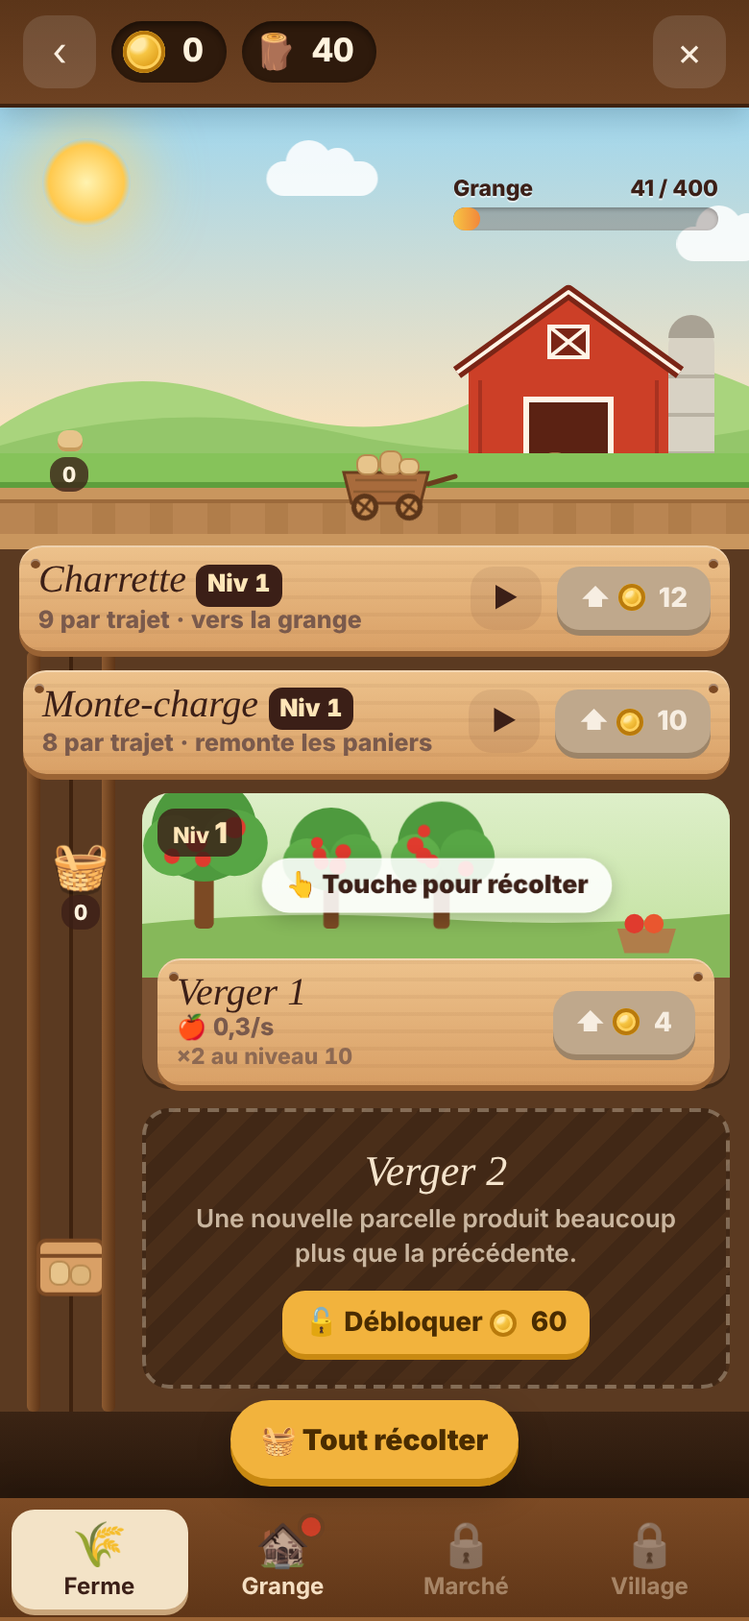
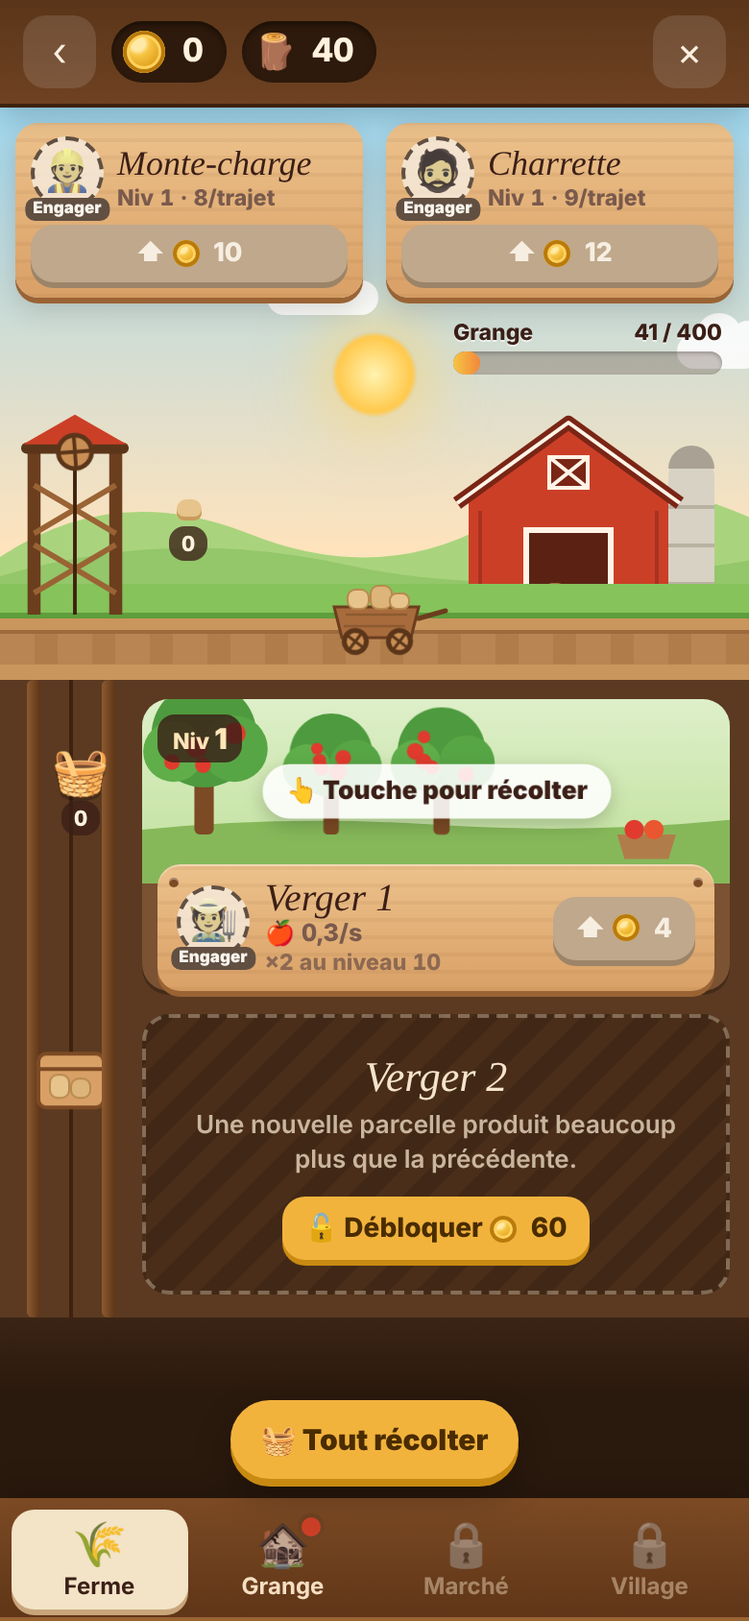
Le Baron v2 : monte-charge et charrette améliorables en haut de la ferme, contremaîtres visibles, trajets à la main en touchant le monte-charge ou la charrette
Claude-Session: https://claude.ai/code/session_016SqHKL96d9NyDZuzEYmYJY

diff --git a/baron.js b/baron.js
@@ -496,8 +496,8 @@ const STYLE = `
 
 /* ======== FERME ======== */
 .b2-farm{background:#5B3A21}
-.b2-sky{position:relative;height:232px;overflow:hidden;background:linear-gradient(var(--sky1),var(--sky2) 78%)}
-.b2-sky .sun{position:absolute;left:22px;top:18px;width:46px;height:46px;border-radius:50%;background:radial-gradient(#FFF3B0,#FFC94D 60%,rgba(255,201,77,0) 72%);box-shadow:0 0 30px 8px rgba(255,214,110,.55)}
+.b2-sky{position:relative;height:300px;overflow:hidden;background:linear-gradient(var(--sky1),var(--sky2) 78%)}
+.b2-sky .sun{position:absolute;left:calc(50% - 23px);top:118px;width:46px;height:46px;border-radius:50%;background:radial-gradient(#FFF3B0,#FFC94D 60%,rgba(255,201,77,0) 72%);box-shadow:0 0 30px 8px rgba(255,214,110,.55)}
 .b2-cloud{position:absolute;height:18px;background:#fff;border-radius:20px;opacity:.85;animation:b2-cloud linear infinite}
 .b2-cloud::before,.b2-cloud::after{content:"";position:absolute;background:#fff;border-radius:50%}
 .b2-cloud::before{width:24px;height:24px;left:10px;top:-11px}.b2-cloud::after{width:18px;height:18px;left:28px;top:-7px}
@@ -507,26 +507,26 @@ const STYLE = `
 .b2-road{position:absolute;left:0;right:0;bottom:8px;height:18px;background:repeating-linear-gradient(90deg,#B98552 0 18px,#B07D4A 18px 30px);border-top:2px solid #9C6A3B}
 .b2-barn{position:absolute;right:10px;bottom:30px;width:150px}
 .b2-barn svg{display:block;width:100%}
-.b2-gauge{position:absolute;right:16px;bottom:166px;width:138px}
+.b2-gauge{position:absolute;right:14px;top:112px;width:140px;z-index:1}
 .b2-gbar{height:12px;border-radius:999px;background:rgba(59,31,23,.25);overflow:hidden;box-shadow:inset 0 1px 2px rgba(0,0,0,.25)}
 .b2-gbar i{display:block;height:100%;border-radius:999px;background:linear-gradient(90deg,#F6C543,#F2873B);transition:width .5s}
 .b2-gbar.full i{background:var(--down);animation:b2-blink 1s infinite}
 @keyframes b2-blink{50%{opacity:.55}}
 .b2-glab{display:flex;justify-content:space-between;font:800 11.5px var(--round);color:var(--ink);margin-bottom:3px;text-shadow:0 1px 0 rgba(255,255,255,.6)}
-.b2-cartlane{position:absolute;left:60px;right:150px;bottom:14px;height:44px}
+.b2-cartlane{position:absolute;left:74px;right:156px;bottom:12px;height:50px;padding:0!important;z-index:1}
 .b2-cart{position:absolute;left:0;bottom:0;width:62px;animation:b2-cart 8s ease-in-out infinite}
 .b2-cart svg{display:block;width:100%}
 .b2-cart .wheel{transform-box:fill-box;transform-origin:center;animation:b2-spin .8s linear infinite}
 @keyframes b2-cart{0%,6%{left:0;transform:scaleX(1)}46%{left:calc(100% - 62px);transform:scaleX(1)}50%,56%{left:calc(100% - 62px);transform:scaleX(-1)}96%{left:0;transform:scaleX(-1)}100%{left:0;transform:scaleX(1)}}
 @keyframes b2-spin{to{transform:rotate(360deg)}}
 .idle .b2-cart,.idle .b2-cart .wheel,.idle .b2-cab,.idle.b2-cab{animation-play-state:paused}
-.b2-quai{position:absolute;left:8px;bottom:28px;width:56px;text-align:center}
+.b2-quai{position:absolute;left:70px;bottom:60px;width:56px;text-align:center;pointer-events:none;z-index:2}
 .b2-quai .sacks{display:flex;flex-wrap:wrap-reverse;justify-content:center;gap:1px;min-height:18px}
 .b2-quai .sk{width:13px;height:11px;border-radius:5px 5px 4px 4px;background:#E7C48B;box-shadow:inset 0 -2px 0 #C79B5C}
 .b2-tag{display:inline-block;background:rgba(59,31,23,.78);color:#FFF3DE;border-radius:8px;padding:2px 6px;font:800 11px var(--round);font-variant-numeric:tabular-nums}
 .b2-tag.warn{background:var(--down)}
-.b2-farmsw{position:absolute;left:78px;top:12px;display:flex;gap:6px}
-.b2-farmsw button{background:rgba(255,255,255,.75)!important;border-radius:999px;padding:4px 10px;font:800 13px var(--round)!important}
+.b2-farmsw{display:flex;gap:6px;padding:10px 12px 0;overflow-x:auto}
+.b2-farmsw button{flex:none;color:var(--ink)!important;background:#FFF4E0!important;border-radius:999px;padding:4px 10px;font:800 13px var(--round)!important}
 .b2-farmsw button.on{background:var(--ink)!important;color:#FFF3DE!important}
 
 /* panneaux en bois (charrette, monte-charge, parcelles) */
@@ -546,11 +546,47 @@ const STYLE = `
 .b2-mgr.hire .b2-coin{width:11px;height:11px;margin:0}
 .b2-mgr.can{animation:b2-call 1.6s ease-in-out infinite}
 @keyframes b2-call{50%{box-shadow:0 0 0 5px rgba(242,179,61,.6)}}
-.b2-cartsign{margin:-2px 10px 0;z-index:2}
+.b2-stn{position:absolute;top:10px;z-index:3;width:calc(50% - 14px);max-width:210px;box-sizing:border-box;border-radius:12px;padding:7px 8px 8px;color:var(--ink);cursor:pointer;
+  box-shadow:0 3px 0 #9A6334,0 6px 14px rgba(59,31,23,.18);background-image:repeating-linear-gradient(0deg,rgba(124,74,36,.07) 0 2px,transparent 2px 9px),linear-gradient(180deg,#EDC28C,#D9A066)}
+.b2-stn.elev{left:8px}.b2-stn.cart{right:8px}
+.b2-stn .top{display:flex;align-items:center;gap:7px}
+.b2-stn .nm{min-width:0;display:flex;flex-direction:column;gap:3px}
+.b2-stn .nm b{font:400 italic 18px/1 var(--disp);white-space:nowrap}
+.b2-stn .bot{display:flex;align-items:center;justify-content:space-between;gap:6px;margin-top:7px}
+.b2-stn .meta{font:800 11.5px var(--round);color:var(--ink2);font-variant-numeric:tabular-nums;line-height:1.2}
+.b2-stn > .b2-btn{display:flex;width:100%;margin-top:2px;padding:7px 8px;font-size:13.5px!important}
+.b2-stn .b2-slow{position:absolute;right:6px;top:-9px;margin:0}
+.b2-seat{position:relative;width:38px;height:38px;flex:none;border-radius:50%!important;display:grid;place-items:center;font-size:21px!important;background:rgba(255,244,224,.7)!important;border:2px dashed var(--wood2)!important;padding:0!important;margin-bottom:6px}
+.b2-seat > i{position:absolute;left:50%;bottom:-8px;transform:translateX(-50%);font:900 8.5px var(--round);font-style:normal;white-space:nowrap;background:var(--wood2);color:#FFF3DE;border-radius:5px;padding:1px 4px}
+.b2-seat:not(.on){filter:saturate(.35)}
+.b2-seat.can{filter:none;animation:b2-call 1.6s ease-in-out infinite}
+.b2-seat.can > i{background:var(--up)}
+.b2-seat.on{background:#FFF4E0!important;border:0!important;box-shadow:0 0 0 2.5px var(--gold),0 2px 0 3px rgba(0,0,0,.12)}
+.b2-seat.on > i{background:var(--gold);color:#4A2C00}
+.b2-tower{position:absolute!important;left:10px;bottom:34px;width:58px;padding:0!important;z-index:2}
+.b2-tower svg{display:block;width:100%}
+.b2-tower .pulley{transform-box:fill-box;transform-origin:center;animation:b2-spin 1.4s linear infinite}
+.b2-tower.idle .pulley{animation-play-state:paused}
+.b2-hand{position:absolute;font-size:28px;line-height:1;pointer-events:none;filter:drop-shadow(0 2px 2px rgba(0,0,0,.3));animation:b2-tap 1.1s ease-in-out infinite;z-index:4}
+.b2-tower .b2-hand{right:-14px;top:30px}
+.b2-cartlane .b2-hand{left:22px;top:-20px}
+@keyframes b2-tap{0%,100%{transform:translateY(0)}50%{transform:translateY(7px) scale(.92)}}
+.b2-plot .b2-sign .sp{cursor:pointer}
+.b2-stat > div{display:flex;align-items:baseline;gap:8px;padding:8px 0;border-bottom:1px solid rgba(59,31,23,.1);font:700 14px var(--round);font-variant-numeric:tabular-nums}
+.b2-stat > div > span:first-child{flex:1;color:var(--ink2)}
+.b2-stat b{font-weight:900}.b2-stat .up2{color:var(--up2)}.b2-stat .ar{color:var(--ink3)}
+.b2-seg.light{background:rgba(59,31,23,.08);margin-top:12px}
+.b2-seg.light button{color:var(--ink2)!important}
+.b2-seg.light button.on{background:#fff!important;color:var(--ink)!important;box-shadow:0 1px 3px rgba(0,0,0,.1)}
+.b2-boss{display:flex;align-items:center;gap:10px;margin-top:14px;background:#FFF0C8;border-radius:14px;padding:10px 12px}
+.b2-boss .f{font-size:30px}.b2-boss .sp{flex:1;min-width:0}
+.b2-boss b{display:block;font:900 14.5px var(--round)}
+.b2-boss span{display:block;font:600 12.5px/1.35 var(--round);color:var(--ink2)}
+.b2-boss.on{background:#DDF3E2}
 
 /* la coupe de terrain */
 .b2-shaft{position:relative;padding:10px 10px 12px 74px}
-.b2-rail{position:absolute;left:12px;top:0;bottom:0;width:50px}
+.b2-rail{position:absolute!important;left:12px;top:0;bottom:0;width:50px;padding:0!important}
 .b2-rail::before,.b2-rail::after{content:"";position:absolute;top:0;bottom:0;width:7px;background:linear-gradient(90deg,#8C5A30,#5E3517);border-radius:3px}
 .b2-rail::before{left:2px}.b2-rail::after{right:2px}
 .b2-rail .rope{position:absolute;left:24px;top:0;width:2px;height:var(--rope,40px);background:#3E220F}
@@ -763,7 +799,7 @@ const STYLE = `
 .b2-field{display:flex;align-items:center;gap:8px;background:#fff;border-radius:12px;padding:8px 12px;margin:6px 0 4px;box-shadow:inset 0 0 0 1.5px rgba(59,31,23,.15)}
 .b2-field input{flex:1;border:0;outline:0;background:none;font:900 20px var(--round);color:var(--ink);width:100%;font-variant-numeric:tabular-nums}
 .b2-sum{display:flex;justify-content:space-between;font:800 14.5px var(--round);margin:10px 0;font-variant-numeric:tabular-nums}
-.b2-toast{position:absolute;left:50%;top:calc(env(safe-area-inset-top,0px) + 64px);transform:translate(-50%,-20px);opacity:0;transition:transform .4s cubic-bezier(.2,1.3,.4,1),opacity .3s;z-index:30;
+.b2-toast{position:absolute;left:50%;top:calc(env(safe-area-inset-top,0px) + 200px);transform:translate(-50%,-20px);opacity:0;transition:transform .4s cubic-bezier(.2,1.3,.4,1),opacity .3s;z-index:30;
   background:var(--ink);color:#FFF3DE;font:800 14px var(--round);border-radius:999px;padding:10px 16px;box-shadow:0 8px 24px rgba(0,0,0,.3);max-width:calc(100% - 32px);text-align:center;pointer-events:none}
 .b2-toast.on{transform:translate(-50%,0);opacity:1}
 .b2-toast.gold{background:#5C3A00;color:#FFE6A8}
@@ -854,6 +890,10 @@ const CART = `<svg viewBox="0 0 62 40" aria-hidden="true"><path d="M2 14 h44 l-4
   <path d="M46 20 l14 -4" stroke="#6B3E1E" stroke-width="2.5" stroke-linecap="round"/>
   <g class="wheel"><circle cx="13" cy="32" r="7" fill="#5B3519"/><circle cx="13" cy="32" r="4.5" fill="#C98F55"/><path d="M13 27.5 v9 M8.5 32 h9" stroke="#5B3519" stroke-width="1.5"/></g>
   <g class="wheel"><circle cx="36" cy="32" r="7" fill="#5B3519"/><circle cx="36" cy="32" r="4.5" fill="#C98F55"/><path d="M36 27.5 v9 M31.5 32 h9" stroke="#5B3519" stroke-width="1.5"/></g></svg>`;
+const TOWER = `<svg viewBox="0 0 60 110" aria-hidden="true"><path d="M8 20 L8 110 M52 20 L52 110" stroke="#6B3E1E" stroke-width="7" stroke-linecap="round"/>
+  <path d="M8 40 L52 66 M52 40 L8 66 M8 72 L52 98 M52 72 L8 98" stroke="#9A6334" stroke-width="3"/><path d="M4 20 H56" stroke="#5B3519" stroke-width="6" stroke-linecap="round"/>
+  <path d="M2 18 L30 2 L58 18Z" fill="#CC3F27"/><path d="M30 28 V110" stroke="#3E220F" stroke-width="2"/>
+  <g class="pulley"><circle cx="30" cy="22" r="9" fill="#C98F55" stroke="#5B3519" stroke-width="2.5"/><path d="M30 14 V30 M22 22 H38" stroke="#5B3519" stroke-width="2"/></g></svg>`;
 const CABIN = `<svg viewBox="0 0 38 36" aria-hidden="true"><path d="M19 0 v6" stroke="#3E220F" stroke-width="2"/><rect x="2" y="6" width="34" height="28" rx="4" fill="#D9A066" stroke="#7C4A24" stroke-width="2"/><path d="M2 14 h34" stroke="#7C4A24" stroke-width="2"/><rect x="8" y="17" width="10" height="12" rx="4" fill="#E7C48B" stroke="#B88A50"/><rect x="19" y="19" width="10" height="10" rx="4" fill="#DDB57A" stroke="#B88A50"/></svg>`;
 function ovenArt(hot){
   return `<svg viewBox="0 0 120 100" aria-hidden="true"><rect x="52" y="0" width="16" height="30" fill="#8C7B6B"/><rect x="49" y="0" width="22" height="5" fill="#6E5F51"/>
@@ -987,6 +1027,10 @@ function live(force){
     const er = f.elev.mgr || f.elev.run > 0, cr = f.cart.mgr || f.cart.run > 0;
     wrapEl.querySelector(".b2-cab")?.classList.toggle("idle", !er);
     wrapEl.querySelector(".b2-sky")?.classList.toggle("idle", !cr);
+    wrapEl.querySelector(".b2-tower")?.classList.toggle("idle", !er);
+    const tot = f.parcels.reduce((a, p) => a + p.pend, 0);
+    const he = wrapEl.querySelector("[data-hint=elev]"); if (he) he.style.display = !f.elev.mgr && f.elev.run <= 0 && tot >= 1 ? "" : "none";
+    const hc = wrapEl.querySelector("[data-hint=cart]"); if (hc) hc.style.display = !f.cart.mgr && f.cart.run <= 0 && f.quai >= 1 ? "" : "none";
     const qe = wrapEl.querySelector("[data-live=quai]"); if (qe) qe.textContent = fmtN(f.quai);
     const sk = wrapEl.querySelector(".b2-quai .sacks");
     if (sk){ const n = Math.min(8, Math.ceil(f.quai / Math.max(1, BX.BAL.quaiCap(BAL.elevRate(f.elev.lvl))) * 8)); if (+sk.dataset.n !== n){ sk.dataset.n = n; sk.innerHTML = "<i class='sk'></i>".repeat(n); } }
@@ -1018,9 +1062,12 @@ function live(force){
 }
 
 /* ---------- Ferme ---------- */
-const mgrBtn = (has, kind, cost, a, i) => has
-  ? `<span class="b2-mgr" title="Contremaître engagé">${MGR[kind]}</span>`
-  : BX.unlocked(S, "mgr") ? `<button class="b2-mgr hire" data-a="${a}" ${i !== undefined ? `data-i="${i}"` : ""} data-mgrc="${cost}" aria-label="Engager un contremaître pour ${fmtN(cost)} pièces">+${MGR[kind]}<span><i class="b2-coin"></i>${fmtN(cost)}</span></button>` : "";
+// le rond du contremaître : vide (à engager) ou occupé
+function seatHTML(kind, has, cost, i){
+  const di = i !== undefined ? `data-i="${i}"` : "";
+  return has ? `<button class="b2-seat on" data-a="station" data-k="${kind}" ${di} aria-label="Contremaître engagé">${MGR[kind]}<i>Auto</i></button>`
+    : `<button class="b2-seat" data-a="station" data-k="${kind}" ${di} data-mgrc="${cost}" aria-label="Engager un contremaître">${MGR[kind]}<i>Engager</i></button>`;
+}
 function upCost(kind, f, i){
   const at = kind === "parcel" ? L => BAL.parcelCost(i, L) : kind === "elev" ? BAL.elevCost : BAL.cartCost;
   const L = kind === "parcel" ? f.parcels[i].lvl : f[kind].lvl;
@@ -1028,11 +1075,19 @@ function upCost(kind, f, i){
   if (b.n === 0) return { n: 1, coins: BX.nice(at(L)) };
   return b;
 }
+const upLabel = u => `⬆ ${u.n > 1 ? `+${u.n} ` : ""}${COIN}${fmtN(u.coins)}`;
+function stationChip(kind, f, r){
+  const u = upCost(kind, f), lvl = f[kind].lvl, cap = (kind === "elev" ? r.E * BAL.elevTrip : r.C * BAL.cartTrip);
+  const cost = kind === "elev" ? BAL.elevMgr : BAL.cartMgr;
+  return `<div class="b2-stn ${kind}" data-a="station" data-k="${kind}">
+    <span class="b2-slow" data-slow="${kind}" style="display:none">Lent</span>
+    <div class="top">${seatHTML(kind, f[kind].mgr, cost)}<div class="nm"><b>${kind === "elev" ? "Monte-charge" : "Charrette"}</b><span class="meta">Niv ${lvl} · ${fmtN(cap)}/trajet</span></div></div>
+    <button class="b2-btn" data-a="up-${kind}" data-cc="${u.coins}">${upLabel(u)}</button></div>`;
+}
 function farmHTML(){
   const key = S.cur, f = S.farms[key], t = now(), pr = P[key];
   const r = BX.farmRates(f, t), cap = BX.barnCap(S), used = BX.stockUnits(S);
   const farmsK = Object.keys(S.farms);
-  const eu = upCost("elev", f), cu = upCost("cart", f);
   const depth = i => `hsl(${26 - i * 1.2} ${42 - i * 2}% ${34 - i * 2.6}%)`;
   const tip = farmTip();
   let plots = f.parcels.map((p, i) => {
@@ -1042,12 +1097,12 @@ function farmHTML(){
       <div class="pend"><div class="bag">🧺</div><span class="b2-tag" data-pend>${fmtN(p.pend)}</span></div>
       <div class="art" data-a="tap-parcel" data-i="${i}">${plotArt(key, i, p.lvl)}</div><span class="b2-plvl">Niv <b>${p.lvl}</b></span>
       <div class="runbar"></div>
-      ${p.mgr ? "" : `<div class="tapme"><span>👆 Touche pour récolter</span></div>`}
+      <div class="tapme"><span>👆 Touche pour récolter</span></div>
       <div class="b2-sign"><div class="row">
-        <div class="sp"><h3>${esc(pr.short)} ${i + 1}</h3>
+        ${seatHTML("parcel", p.mgr, BX.nice(BAL.parcelMgr(i)), i)}
+        <div class="sp" data-a="station" data-k="parcel" data-i="${i}"><h3>${esc(pr.short)} ${i + 1}</h3>
         <div class="meta">${pr.e} ${fmtN(rate, 1)}/s</div>${next ? `<div class="meta" style="font-size:11.5px;opacity:.8">×2 au niveau ${next}</div>` : ""}</div>
-        ${mgrBtn(p.mgr, "parcel", BX.nice(BAL.parcelMgr(i)), "mgr-parcel", i)}
-        <button class="b2-btn" data-a="up-parcel" data-i="${i}" data-cc="${pu.coins}">⬆ ${pu.n > 1 ? `+${pu.n} ` : ""}${COIN}${fmtN(pu.coins)}</button>
+        <button class="b2-btn" data-a="up-parcel" data-i="${i}" data-cc="${pu.coins}">${upLabel(pu)}</button>
       </div></div></div>`;
   }).join("");
   const nc = BX.nextParcelCost(f), ni = f.parcels.length;
@@ -1056,40 +1111,53 @@ function farmHTML(){
     <button class="b2-btn gold" data-a="unlock" data-cc="${nc.coins}" data-cw="${nc.wood}">🔓 Débloquer ${price(nc)}</button></div>`;
   return `<div class="b2-farm"><div class="b2-col">
     <div class="b2-sky">
-      <div class="sun"></div><div class="b2-cloud" style="top:30px;width:58px;animation-duration:70s;animation-delay:-20s"></div><div class="b2-cloud" style="top:64px;width:44px;animation-duration:95s;animation-delay:-60s"></div>
-      ${farmsK.length > 1 ? `<div class="b2-farmsw">${farmsK.map(k => `<button class="${k === key ? "on" : ""}" data-a="farm" data-k="${k}">${P[k].e} ${P[k].label}</button>`).join("")}</div>` : ""}
+      <div class="sun"></div><div class="b2-cloud" style="top:92px;width:58px;animation-duration:70s;animation-delay:-20s"></div><div class="b2-cloud" style="top:120px;width:44px;animation-duration:95s;animation-delay:-60s"></div>
       <svg class="b2-hills" viewBox="0 0 400 70" preserveAspectRatio="none" aria-hidden="true"><path d="M0 50 Q60 10 130 38 T260 30 T400 34 V70 H0Z" fill="#A9D47D"/><path d="M0 60 Q90 34 180 54 T400 50 V70 H0Z" fill="#94C66A"/></svg>
-      <div class="b2-gauge"><div class="b2-glab"><span>Grange</span><span data-live="barn">${fmtN(used)} / ${fmtN(cap)}</span></div><div class="b2-gbar"><i style="width:${Math.min(100, used / cap * 100)}%"></i></div>
+      ${stationChip("elev", f, r)}
+      ${stationChip("cart", f, r)}
+      <div class="b2-gauge" data-a="tab" data-v="barn"><div class="b2-glab"><span>Grange</span><span data-live="barn">${fmtN(used)} / ${fmtN(cap)}</span></div><div class="b2-gbar"><i style="width:${Math.min(100, used / cap * 100)}%"></i></div>
         <div data-slow="barn" style="display:none;margin-top:4px;text-align:right"><span class="b2-tag warn">Pleine : la récolte s'arrête</span></div></div>
       <div class="b2-barn" data-a="tab" data-v="barn" data-n="-1"></div>
       <div class="b2-ground"></div><div class="b2-road"></div>
+      <button class="b2-tower" data-a="tap-elev" aria-label="Faire monter le monte-charge">${TOWER}<span class="b2-hand" data-hint="elev">👆</span></button>
       <div class="b2-quai"><div class="sacks" data-n="-1"></div><span class="b2-tag" data-live="quai">${fmtN(f.quai)}</span></div>
-      <div class="b2-cartlane"><div class="b2-cart" style="animation-duration:${Math.max(3, BAL.cartTrip - Math.min(4, f.cart.lvl / 12))}s">${CART}</div></div>
+      <button class="b2-cartlane" data-a="tap-cart" aria-label="Faire rouler la charrette"><div class="b2-cart" style="animation-duration:${Math.max(3, BAL.cartTrip - Math.min(4, f.cart.lvl / 12))}s">${CART}</div><span class="b2-hand" data-hint="cart">👆</span></button>
     </div>
-    <div class="b2-sign b2-cartsign"><div class="row">
-      <div class="sp"><h3>Charrette <span class="b2-lvl">Niv ${f.cart.lvl}</span><span class="b2-slow" data-slow="cart" style="display:none">Lent</span></h3>
-      <div class="meta">${fmtN(r.C * BAL.cartTrip)} par trajet · vers la grange</div></div>
-      ${f.cart.mgr ? "" : `<button class="b2-btn ghost" data-a="run-cart" aria-label="Lancer la charrette">▶</button>`}
-      ${mgrBtn(f.cart.mgr, "cart", BAL.cartMgr, "mgr-cart")}
-      <button class="b2-btn" data-a="up-cart" data-cc="${cu.coins}">⬆ ${cu.n > 1 ? `+${cu.n} ` : ""}${COIN}${fmtN(cu.coins)}</button>
-    </div></div>
+    ${farmsK.length > 1 ? `<div class="b2-farmsw">${farmsK.map(k => `<button class="${k === key ? "on" : ""}" data-a="farm" data-k="${k}">${P[k].e} ${P[k].label}</button>`).join("")}</div>` : ""}
     ${tip}
-    ${BX.unlocked(S, "mgr") ? `<div style="display:flex;justify-content:flex-end;padding:10px 12px 0"><div class="b2-seg" style="margin:0;background:rgba(0,0,0,.25);width:auto">${[1, 10, "max"].map(m => `<button class="${mult === m ? "on" : ""}" data-a="mult" data-m="${m}" style="color:#F5E4CC!important;padding:5px 12px">${m === "max" ? "Max" : "×" + m}</button>`).join("")}</div></div>` : ""}
     <div class="b2-shaft">
-      <div class="b2-rail"><div class="rope" style="height:100%"></div><div class="b2-cab">${CABIN}</div></div>
-      <div class="b2-sign b2-elev"><div class="row">
-        <div class="sp"><h3>Monte-charge <span class="b2-lvl">Niv ${f.elev.lvl}</span><span class="b2-slow" data-slow="elev" style="display:none">Lent</span></h3>
-        <div class="meta">${fmtN(r.E * BAL.elevTrip)} par trajet · remonte les paniers</div></div>
-        ${f.elev.mgr ? "" : `<button class="b2-btn ghost" data-a="run-elev" aria-label="Lancer le monte-charge">▶</button>`}
-        ${mgrBtn(f.elev.mgr, "elev", BAL.elevMgr, "mgr-elev")}
-        <button class="b2-btn" data-a="up-elev" data-cc="${eu.coins}">⬆ ${eu.n > 1 ? `+${eu.n} ` : ""}${COIN}${fmtN(eu.coins)}</button>
-      </div></div>
+      <button class="b2-rail" data-a="tap-elev" aria-label="Faire monter le monte-charge"><div class="rope" style="height:100%"></div><div class="b2-cab">${CABIN}</div></button>
       ${plots}
     </div>
     ${farm2HTML()}
     <div class="b2-deep"></div><div style="height:84px;background:#2A190D"></div>
   </div></div>`;
 }
+/* fiche d'une station : ce que l'amélioration apporte, et le contremaître */
+function stationSheet(kind, i){ sheetCtx = { type:"station", kind, i }; sheet(stationInner().replace('<div class="grab"></div>', '')); }
+function stationInner(){
+  const { kind, i } = sheetCtx, f = S.farms[S.cur], t = now(), boost = f.boost > t ? 2 : 1;
+  const st = kind === "parcel" ? f.parcels[i] : f[kind], L = st.lvl, u = upCost(kind, f, i), L2 = L + u.n;
+  const rate = l => kind === "parcel" ? BAL.parcelRate(i, l) * boost : kind === "elev" ? BAL.elevRate(l) : BAL.cartRate(l);
+  const trip = kind === "elev" ? BAL.elevTrip : BAL.cartTrip;
+  const name = kind === "parcel" ? `${P[S.cur].short} ${i + 1}` : kind === "elev" ? "Monte-charge" : "Charrette";
+  const what = kind === "parcel" ? `Produit ${P[S.cur].e} ${esc(P[S.cur].label.toLowerCase())} dans son panier, en bas à gauche.`
+    : kind === "elev" ? "Remonte les paniers des parcelles jusqu'en haut du puits." : "Porte la récolte du haut du monte-charge jusqu'à la grange.";
+  const cost = kind === "parcel" ? BX.nice(BAL.parcelMgr(i)) : kind === "elev" ? BAL.elevMgr : BAL.cartMgr;
+  const manual = kind === "parcel" ? "toucher la parcelle" : kind === "elev" ? "toucher le monte-charge" : "toucher la charrette";
+  const next = BX.MILES.find(m => m > L);
+  const rows = (kind === "parcel" ? [["Production", `${fmtN(rate(L), 1)}/s`, `${fmtN(rate(L2), 1)}/s`]]
+    : [["Par trajet", fmtN(rate(L) * trip), fmtN(rate(L2) * trip)], ["Débit", `${fmtN(rate(L), 1)}/s`, `${fmtN(rate(L2), 1)}/s`]]);
+  return `<div class="grab"></div><h3>${MGR[kind]} ${name} <span class="b2-lvl">Niv ${L}</span></h3><p>${what}</p>
+    <div class="b2-stat">${rows.map(([a, b, c]) => `<div><span>${a}</span><b>${b}</b><span class="ar">→</span><b class="up2">${c}</b></div>`).join("")}</div>
+    ${next ? `<p class="b2-note" style="margin:6px 0 0">Au niveau ${next}, ${kind === "parcel" ? "la production" : "la capacité"} double.</p>` : ""}
+    <div class="b2-seg light">${[1, 10, "max"].map(m => `<button class="${mult === m ? "on" : ""}" data-a="st-mult" data-m="${m}">${m === "max" ? "Max" : "×" + m}</button>`).join("")}</div>
+    <button class="b2-btn big" style="margin-top:10px" data-a="st-up" data-cc="${u.coins}">Améliorer au niveau ${L2} · ${COIN}${fmtN(u.coins)}</button>
+    <div class="b2-boss ${st.mgr ? "on" : ""}"><span class="f">${MGR[kind]}</span><div class="sp">${st.mgr
+      ? `<b>Contremaître engagé</b><span>Il travaille tout seul, même quand l'appli est fermée.</span></div>`
+      : `<b>Contremaître</b><span>Sans lui, il faut ${manual} à chaque fois. Lui le fait tout seul, même appli fermée.</span></div><button class="b2-btn gold" data-a="st-hire" data-cc="${cost}">Engager ${COIN}${fmtN(cost)}</button>`}</div>`;
+}
+function refreshStation(){ const sh = wrapEl && wrapEl.querySelector(".b2-sheet"); if (sh && sheetCtx && sheetCtx.type === "station"){ sh.innerHTML = stationInner(); live(); } }
 function farm2HTML(){
   if (!BX.unlocked(S, "farm2") || S.cur !== S.spec) return "";
   const free = BX.RAW.filter(k => !S.farms[k]); if (!free.length) return "";
@@ -1106,9 +1174,9 @@ function dockHTML(){
   </div></div>`;
 }
 const TIPS = [
-  { id:"start",  when: () => S.stats.produced === 0 && S.coins === 0, i:"👆", txt:"Touche ta parcelle pour récolter. Le monte-charge remonte les paniers, la charrette les porte à la grange. « Tout récolter » lance tout d'un coup." },
+  { id:"start",  when: () => S.stats.produced === 0 && S.coins === 0, i:"👆", txt:"Touche ton champ pour récolter. Puis touche le monte-charge (à gauche) pour remonter le panier, et la charrette pour le porter à la grange. « Tout récolter » fait tout d'un coup." },
   { id:"sell",   when: () => S.stats.earned === 0 && S.stock[S.spec] >= 5, i:"🏚", txt:"Ta récolte est dans la grange. Ouvre l'onglet Grange pour la vendre au village." },
-  { id:"mgr",    when: () => BX.unlocked(S, "mgr") && !S.farms[S.spec].parcels[0].mgr, i:"🧑🌾", txt:"Engage un contremaître (le rond pointillé) : il travaille à ta place, même quand l'appli est fermée." },
+  { id:"mgr",    when: () => S.coins >= 25 && !S.farms[S.spec].parcels[0].mgr, i:"🧑🌾", txt:"Fatigué de toucher ? Engage un contremaître (les ronds « Engager ») : il fait le travail tout seul, même quand l'appli est fermée." },
   { id:"slow",   when: () => !!BX.bottleneck(S, S.cur, now()) && S.farms[S.cur].parcels[0].mgr, i:"🐢", txt:"Le badge « Lent » montre le maillon qui freine ta ferme. Paniers pleins en bas : améliore le monte-charge. Tas en haut : la charrette." },
   { id:"boost",  when: () => BX.unlocked(S, "boost"), i: () => P[S.spec].act.e, txt: () => `${P[S.spec].act.txt}, pendant 1 minute. Tu peux recommencer toutes les 4 minutes.` },
   { id:"marche", when: () => BX.unlocked(S, "marche"), i:"📈", txt:"Le marché est ouvert : achète et vends avec tes amis, au prix que tu choisis." },
@@ -1458,7 +1526,7 @@ function onClick(e){
     case "tap-parcel": {
       const p = f.parcels[+b.dataset.i];
       if (p.mgr){ floatText(b, "Ton contremaître s'en occupe"); return; }
-      if (p.run <= 0){ p.run = BAL.cycle; sound("tap"); bounce(b); if (!f.elev.mgr && f.elev.run <= 0) f.elev.run = BAL.cycle; if (!f.cart.mgr && f.cart.run <= 0) f.cart.run = BAL.cycle; markSeen("tip_start"); }
+      if (p.run <= 0){ p.run = BAL.cycle; sound("tap"); bounce(b); }
       live(); return;
     }
     case "harvest": {
@@ -1466,8 +1534,27 @@ function onClick(e){
       if (!f.elev.mgr) f.elev.run = Math.max(f.elev.run, BAL.cycle); if (!f.cart.mgr) f.cart.run = Math.max(f.cart.run, BAL.cycle);
       sound("tap"); bounce(b); buzz(10); markSeen("tip_start"); live(); return;
     }
-    case "run-elev": f.elev.run = Math.max(f.elev.run, BAL.cycle); sound("tap"); bounce(b); live(); return;
-    case "run-cart": f.cart.run = Math.max(f.cart.run, BAL.cycle); sound("tap"); bounce(b); live(); return;
+    case "tap-elev": case "tap-cart": {
+      const st = a === "tap-elev" ? f.elev : f.cart;
+      if (st.mgr){ floatText(b, "Ton contremaître s'en occupe"); return; }
+      if (st.run <= 0){ st.run = BAL.cycle; sound("tap"); bounce(b.querySelector(".b2-cab, .b2-cart, svg") || b); }
+      live(); return;
+    }
+    case "station": stationSheet(b.dataset.k, b.dataset.i !== undefined ? +b.dataset.i : undefined); return;
+    case "st-mult": mult = b.dataset.m === "max" ? "max" : +b.dataset.m; refreshStation(); draw(); return;
+    case "st-up": {
+      const { kind, i } = sheetCtx; const u = upCost(kind, f, i);
+      if (!paid({ coins: u.coins }, b)) return;
+      const st = kind === "parcel" ? f.parcels[i] : f[kind]; const m0 = BX.MILES.filter(m => m <= st.lvl).length; st.lvl += u.n;
+      const crossed = BX.MILES.filter(m => m <= st.lvl).length > m0;
+      sound("up"); floatText(b, crossed ? "×2 !" : `Niv ${st.lvl}`, crossed ? "gold" : ""); draw(); refreshStation(); return;
+    }
+    case "st-hire": {
+      const { kind, i } = sheetCtx; const st = kind === "parcel" ? f.parcels[i] : f[kind]; if (st.mgr) return;
+      const c = { coins: kind === "parcel" ? BX.nice(BAL.parcelMgr(i)) : kind === "elev" ? BAL.elevMgr : BAL.cartMgr };
+      if (!paid(c, b)) return;
+      st.mgr = true; markSeen("tip_mgr"); sound("done"); buzz(20); draw(); refreshStation(); save(true); return;
+    }
     case "boost": {
       if (f.boost > t){ toast(`Déjà ×2 encore ${fmtT(f.boost - t)}`); return; }
       if (f.boostCd > t){ toast(`${P[S.cur].act.label} : de nouveau possible dans ${fmtT(f.boostCd - t)}`); return; }

diff --git a/index.html b/index.html
@@ -1314,7 +1314,7 @@ if (role === "ami" || role === "romane"){
     loadScript("jeux.js?v=9").catch(() => {});
     loadScript("hub.js?v=10").catch(() => {});
     loadScript("colis.js?v=1").catch(() => {});
-    if (role === "ami") loadScript("baron.js?v=10").catch(() => {});
+    if (role === "ami") loadScript("baron.js?v=11").catch(() => {});
   }catch(e){}
 }
 window.addEventListener("pageshow", e => { if (e.persisted) refreshIfStale(); });
